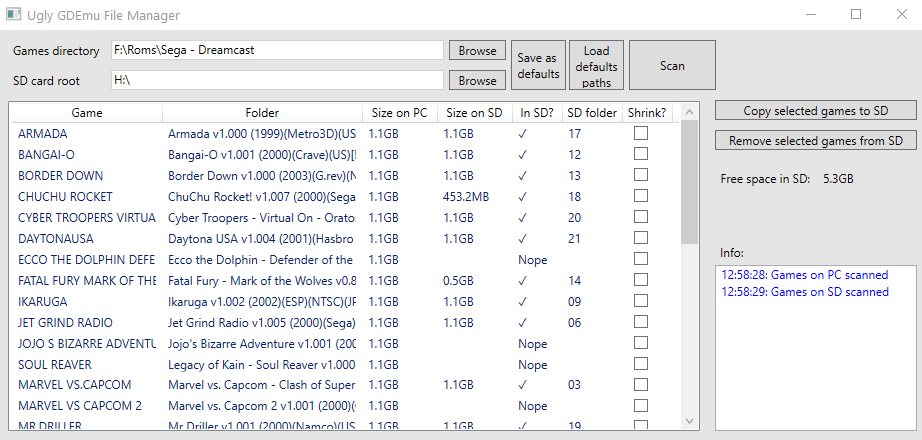
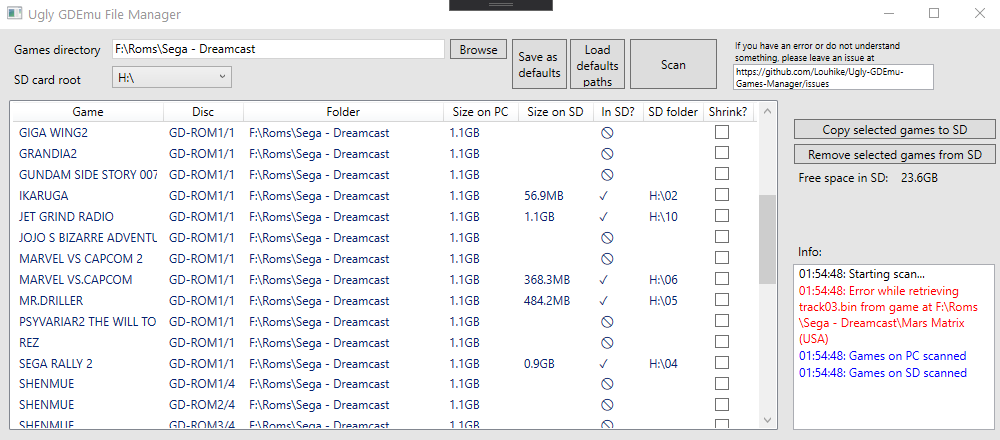
Fix and readme update * SD folder is now correct * Update README and capture.

diff --git a/GDEmuSdCardManager.BLL/GameManager.cs b/GDEmuSdCardManager.BLL/GameManager.cs
@@ -45,7 +45,7 @@ namespace GDEmuSdCardManager.BLL
                 GameName = game.GameName,
                 Hwid = game.Hwid,
                 Maker = game.Maker,
-                Path = game.Path,
+                Path = game.FullPath,
                 Perif = game.Perif,
                 Producer = game.Producer,
                 ProductN = game.ProductN,

diff --git a/README.md b/README.md
@@ -2,31 +2,27 @@
 ![alt text](./capture1.png)
 
 ## What is Ugly GDEmu Games Manager
-UGDEmuGM is a software to manage games on the SD card you have for GDEmu, as it can be cumbersome.
+UGGM is a software to manage your games on the SD card you have for GDEmu, as it can be cumbersome.
 
 It allows you to:
 * Copy the games from your PC on your SD card. It will find what must the name of folder (02,03 ,04, etc.) and create it. If an empty folder already exists, it will use it.
-* Shrink the games while copying them on your SD card. The files on your PC won't be shrinked.
+* Shrink (optionnaly) the games while copying them on your SD card. The files on your PC won't be shrinked.
 * Remove Games from your SD card.
 * Show which games on your PC are not on your SD card.
 
 It also shows the free space on your SD card and the size of your games.
 
-WARNING: EDIT: The tool does not work well with the SD Card Maker of MadSheep for the time being. I will fix that in the future release. For the time being, use just one of them, not both at the same time.
-
 ## Roadmap
-1. Improve how the name of the game is retrieve.
-2. Make tool compatible with Mad Sheep SD Card Maker
-3. Sort games alphabetically in the SD card
-4. Copy files from SD to PC.
-5. Increment the progress bar more gradually.
+1. Sort games alphabetically in the SD card
+2. Copy games from SD to PC.
+3. Increment the progress bar more gradually.
 
 ## Technical roadmap
-TODO
+1. Use the last version of gditools with IronPython to shrink the games.
 
 ## Would be nice to have
 
-* Add cover from https://archive.org/details/670dreamcastgamesjewelcoverpicturesconvertedto256x256.pvrfilesforgdemu.7z
+* Automatically add covers if missing from https://archive.org/details/670dreamcastgamesjewelcoverpicturesconvertedto256x256.pvrfilesforgdemu.7z
 
 ## Credits
 The software is using the following tools made by others:
